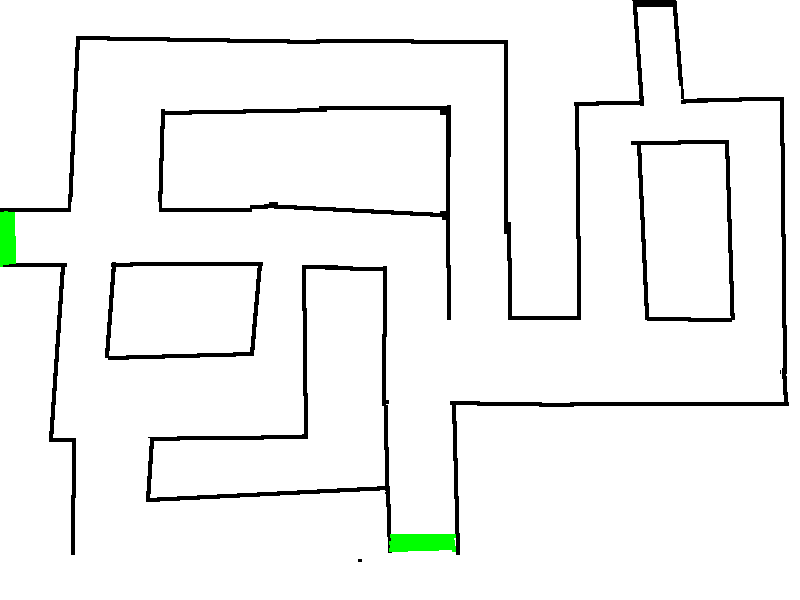
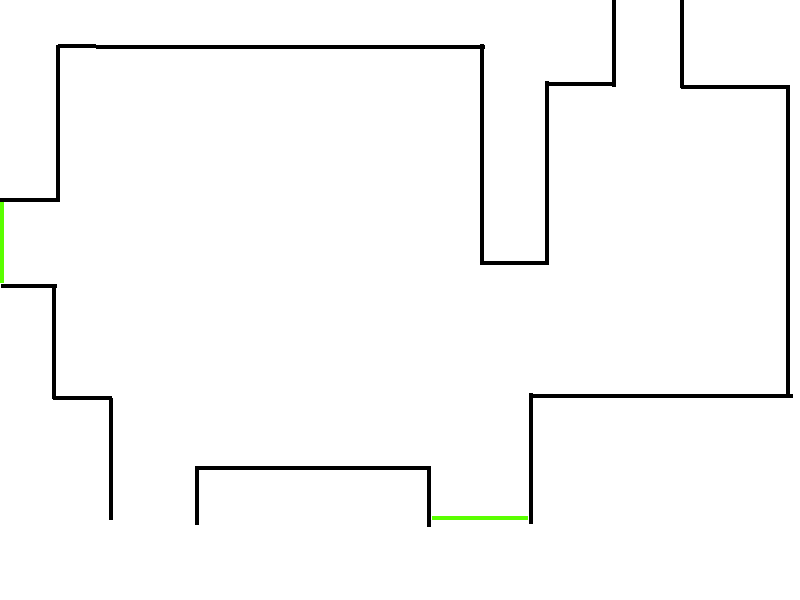
Added dungeon scenes 1, 2, 3, & 4

diff --git a/level2.py b/level2.py
@@ -1,4 +1,5 @@
 import pygame
+from objects import player
 
 def level2loop():
     screen_width = 800
@@ -11,21 +12,30 @@ def level2loop():
     DungeonImg1 = pygame.image.load("DungeonScene1.png")
     DungeonImg2 = pygame.image.load("DungeonScene2.png")
     DungeonImg3 = pygame.image.load("DungeonScene3.png")
+    DungeonImg4 = pygame.image.load("DungeonScene4.png")
 
 
     def dungeonScene1():
+        screen.fill(white)
         screen.blit(DungeonImg1, (0, 0))
+        player.render(screen)
 
     def dungeonScene2():
+        screen.fill(white)
         screen.blit(DungeonImg2, (0, 0))
+        player.render(screen)
 
     def dungeonScene3():
+        screen.fill(white)
         screen.blit(DungeonImg3, (0, 0))
+        player.render(screen)
 
     def dungeonScene4():
-        pass
+        screen.fill(white)
+        screen.blit(DungeonImg4, (0, 0))
+        player.render(screen)
 
-    scene = "dungeonScene"
+    scene = "dungeonScene1"
     isRunning = True
     while isRunning:
         for event in pygame.event.get():
@@ -33,14 +43,43 @@ def level2loop():
                 pygame.quit()
                 isRunning = False
 
-        if scene == "dungeonScene":
-            dungeonScene()
+    scene = "dungeonScene2"
+    isRunning = True
+    while isRunning:
+        for event in pygame.event.get():
+            if event.type == pygame.QUIT:
+                pygame.quit()
+                isRunning = False
 
+    scene = "dungeonScene3"
+    isRunning = True
+    while isRunning:
+        for event in pygame.event.get():
+            if event.type == pygame.QUIT:
+                pygame.quit()
+                isRunning = False
 
-        pygame.display.flip()
-        clock.tick(fps)
+    scene = "dungeonScene4"
+    isRunning = True
+    while isRunning:
+        for event in pygame.event.get():
+            if event.type == pygame.QUIT:
+                pygame.quit()
+                isRunning = False
 
+        if scene == "dungeonScene1":
+            dungeonScene1()
+        elif scene == "dungeonScene2":
+            dungeonScene2()
+        elif scene == "dungeonScene3":
+            dungeonScene3()
+        elif scene == "dungeonScene4":
+            dungeonScene4()
+
+    pygame.display.flip()
+    clock.tick(fps)
     pygame.quit()
+
 
 if __name__ == "__main__":
     level2loop()
